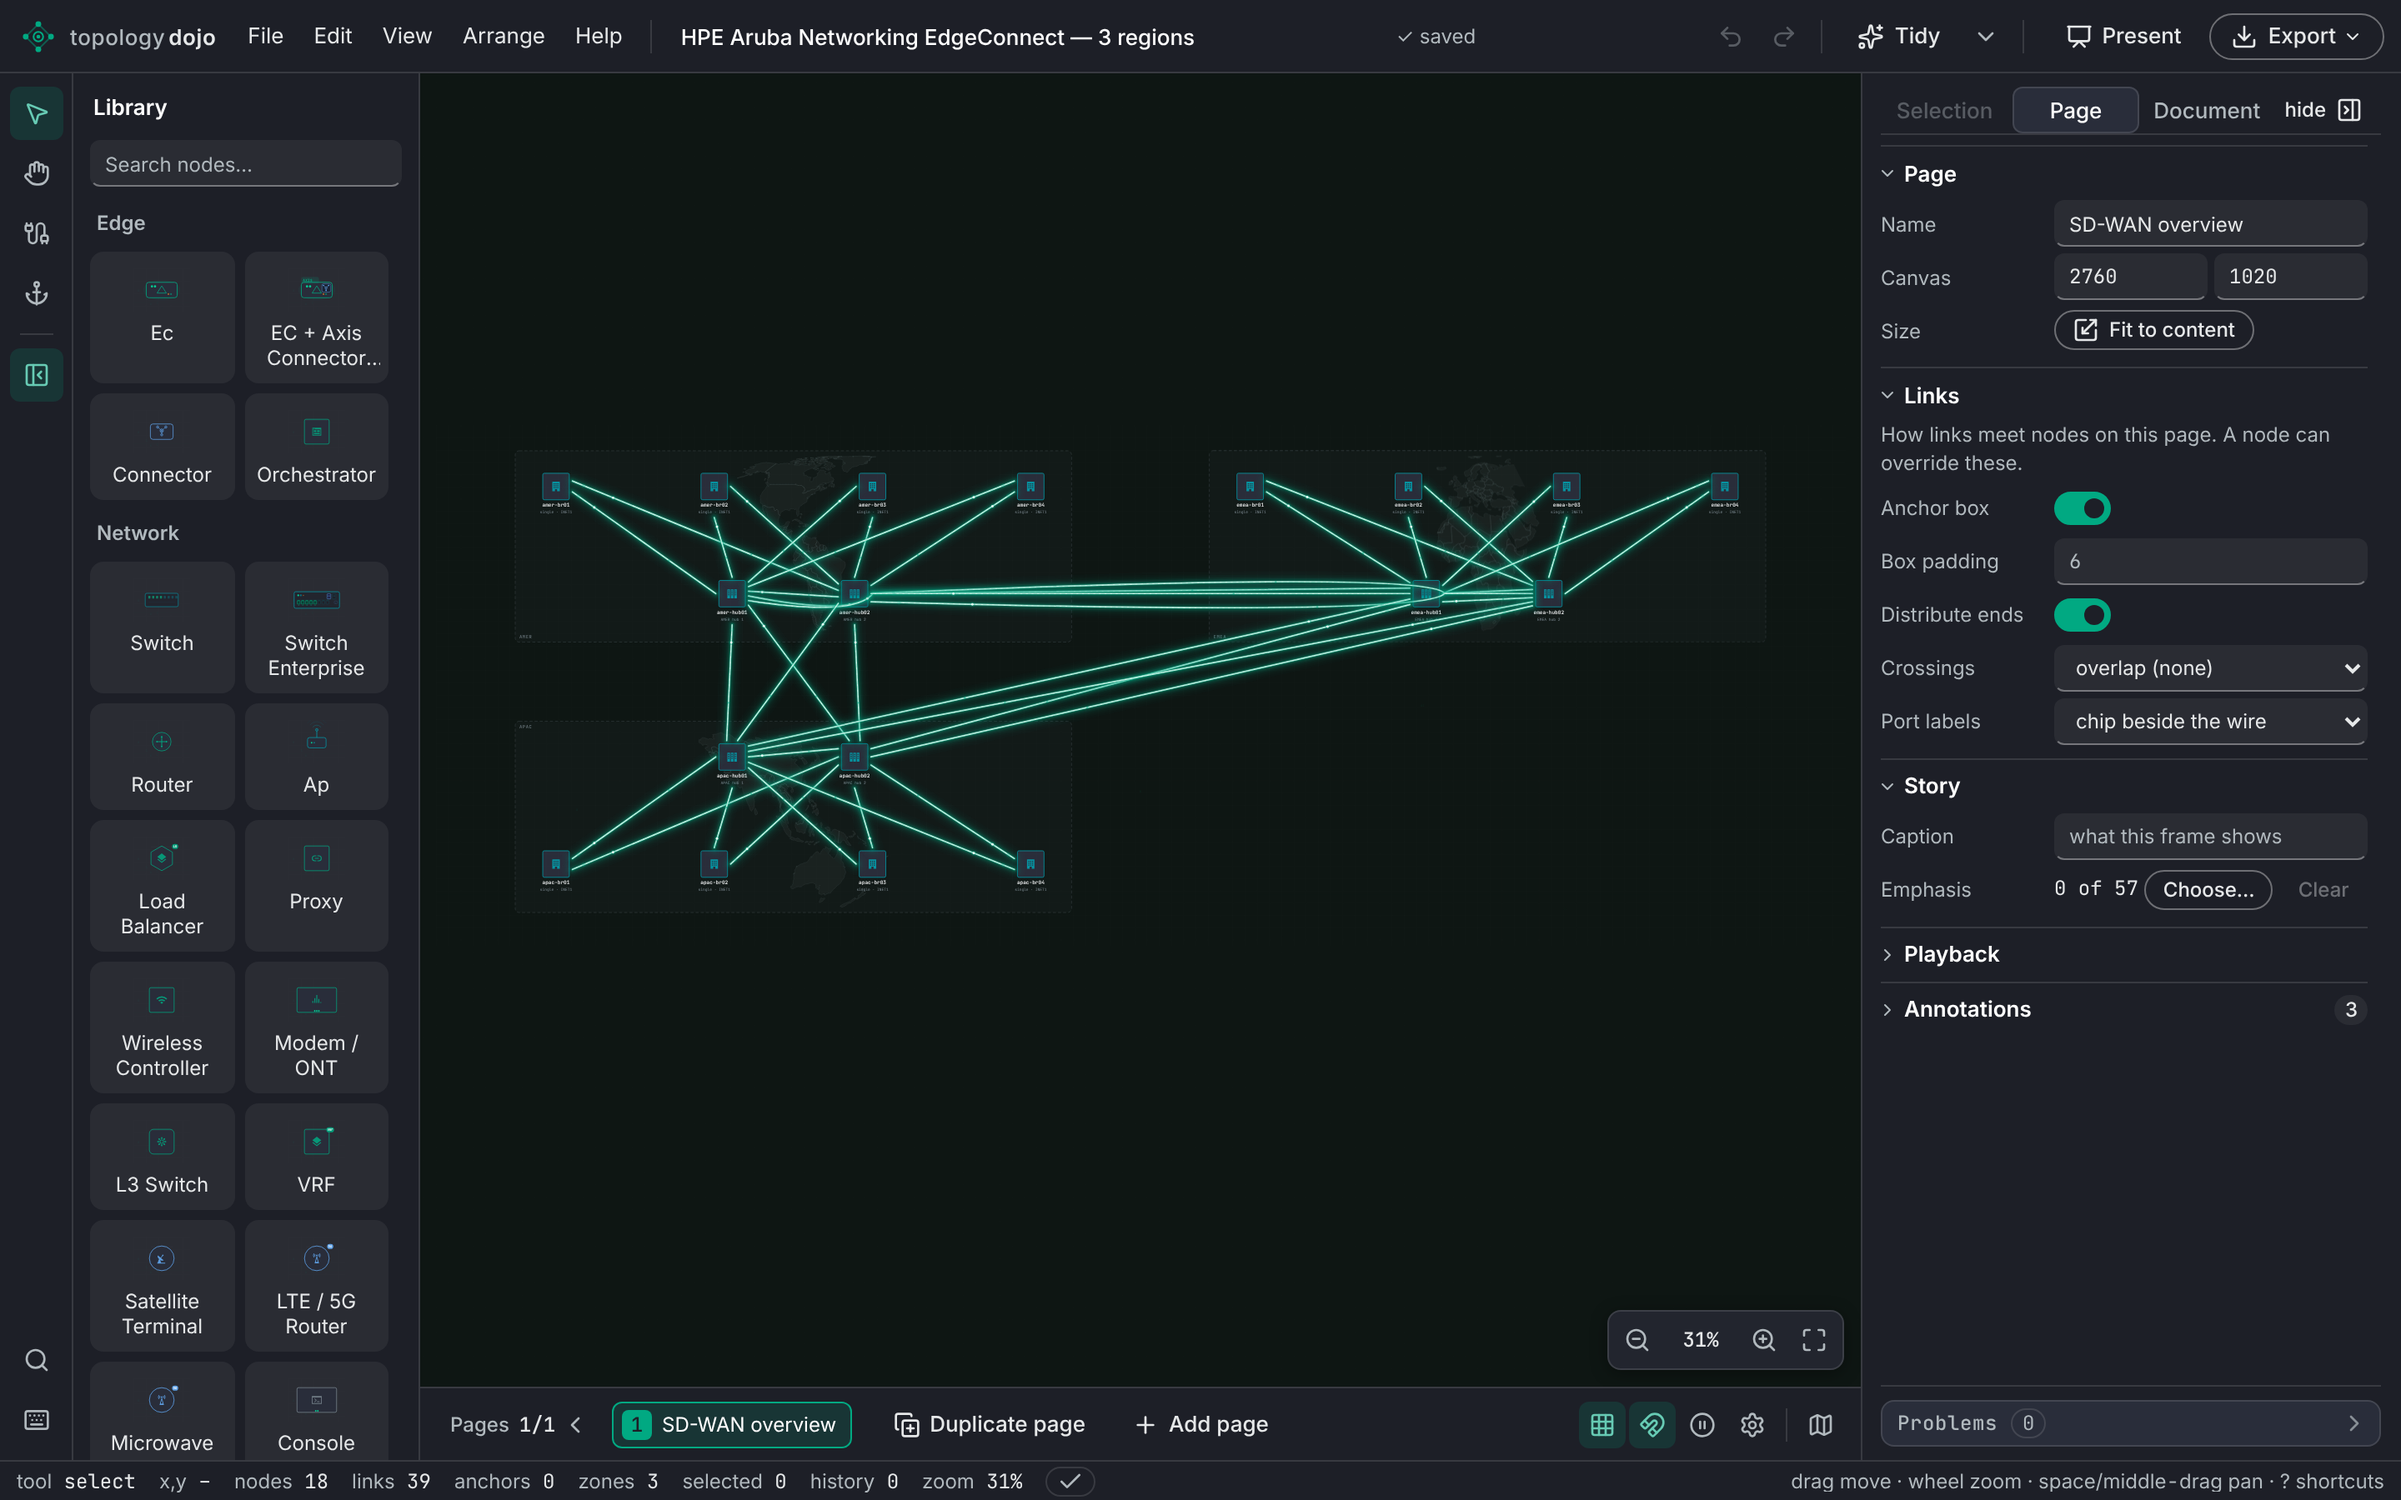
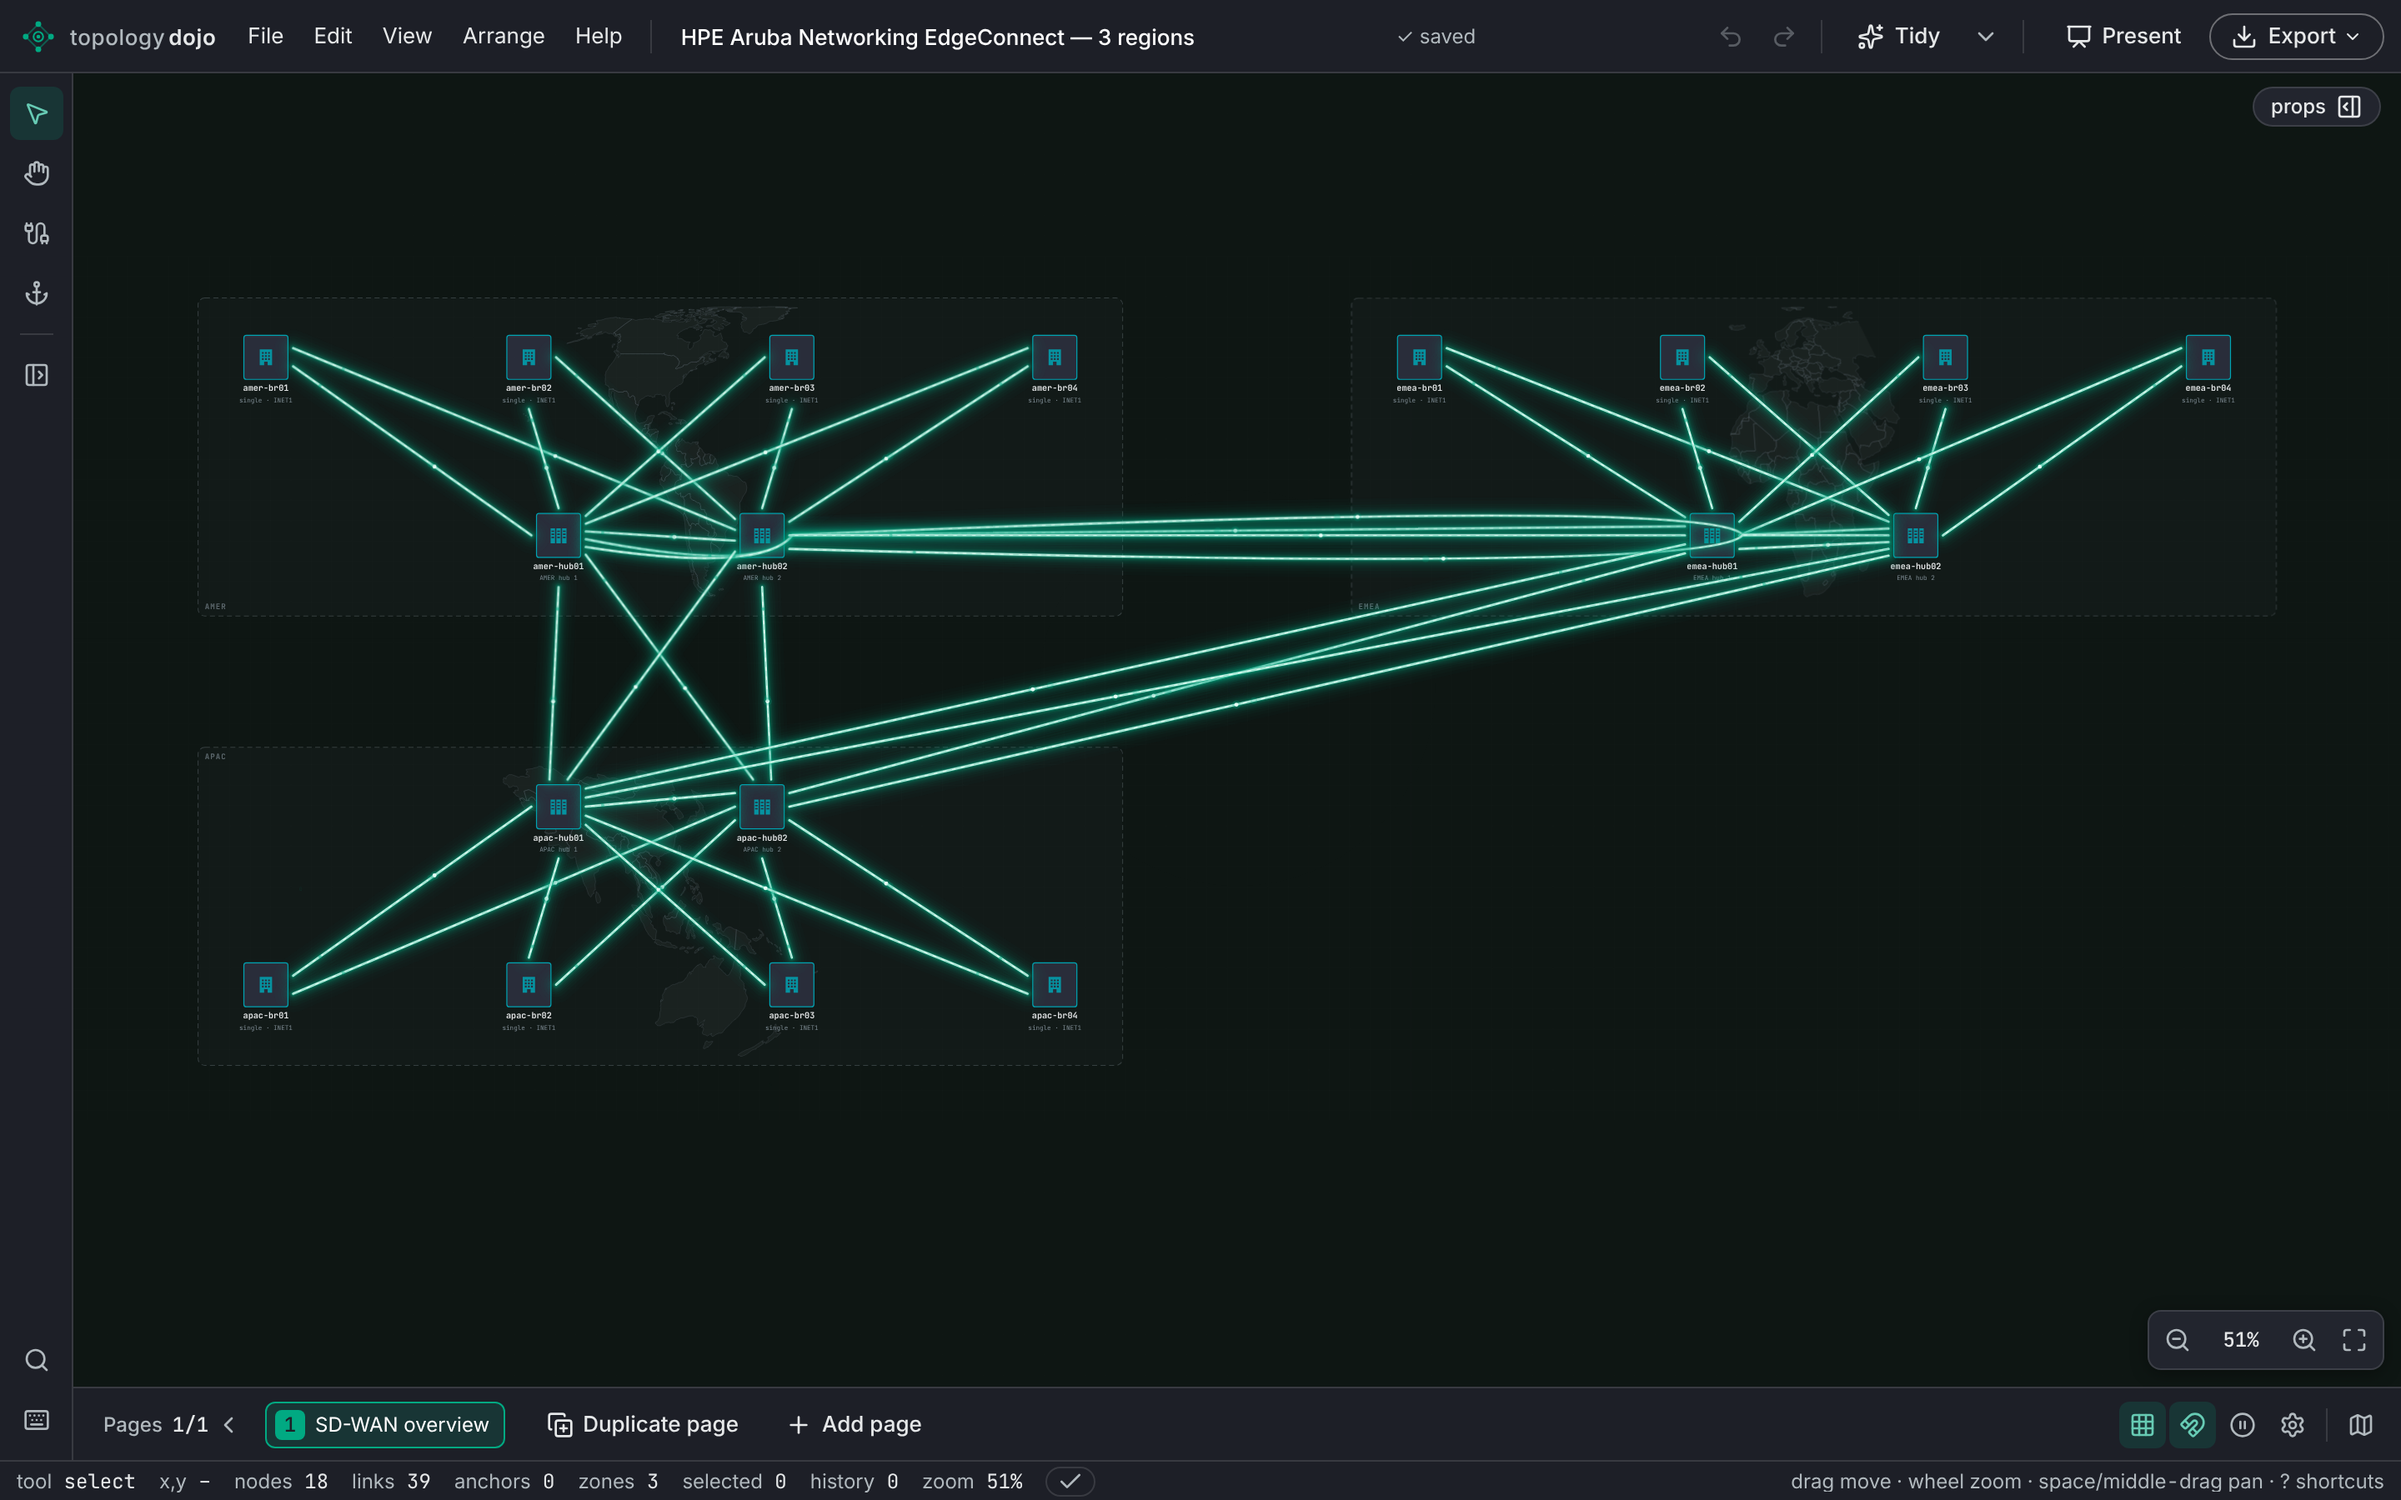
docs: what the release run for #327 did, the CI evidence, and a README image that shows the diagram
The proposal, the handoff and the roadmap record that the Release run for
d224979 failed in CI's browser job and deployed nothing, read from the run's
own job list. The QA plan records the CI results on the shell, the measured
cause of the timeouts and the passing runs on ee278eb.

The README's lead image was regenerated with the library and the properties
panel closed: with both open the fabric was drawn at 31% and could not be
read; it is at 51% now. The script and the alt text say so.

Claude-Session: https://claude.ai/code/session_011p1xTfiECfRXNFo4UFq8R1

diff --git a/docs/launch-readiness/QA_TEST_PLAN.md b/docs/launch-readiness/QA_TEST_PLAN.md
@@ -246,6 +246,21 @@ pages dock drawn over it, so each image is 704 x 608 at the test's window
 (they were 1018 x 646). The commit records that the images were regenerated
 from an ordinary checkout and each was looked at.
 
+2026-11-19, CI on the shell (not part of the run above). On `bccbe9a`, the
+head PR #327 merged, the pull request's browser job failed nine tests of 277
+(28.2 minutes): the pages bar's layout at 720 x 450 (an assertion, EDT-45's
+defect) and eight tests past the 30-second limit on all three attempts. The
+Release run for the merge, `d224979` (run 44554032473), failed three of them
+(274 passed, 19.8 minutes), and its `stage` and `production` jobs were
+skipped. The cause of the timeouts was measured: CI recorded a trace of every
+test, which doubles what a test costs (the same nine tests took 34 s without
+and 72 s with), and the helper that runs a command from the menu bar opened
+every menu and submenu until it found the item. On `ee278eb` (PR #328: the
+compact layout, a helper that goes straight to the item, and a trace only for
+a retried test) CI's `check`, `visio` and `e2e` jobs passed, and the whole
+browser suite run locally with CI's settings (`CI=1`) passed: 285 tests, none
+failed or flaky, 13.1 minutes, the longest test 23 s.
+
 2026-11-19, local run for §7.16–§7.18 (not part of the run above): on the code
 of `d24f6a4` (PR #328's branch: `d224979` plus the compact layout), in a Linux
 sandbox with a pre-provisioned headless Chromium, `npx playwright test` of

diff --git a/docs/proposals/0013-ui-overhaul.md b/docs/proposals/0013-ui-overhaul.md
@@ -13,9 +13,14 @@ zoom control, the selection bar's align, distribute, order and lock buttons,
 the command palette on Ctrl/Cmd+K, the context menu on the shared menu
 component, the properties panel's three tabs and regrouped sections, and the
 shared controls on the wizards, the workspace, preferences and admin panels
-and the node designer. PR #328 (not merged) adds the compact layout (below
+and the node designer. The Release run for `d224979` (run 44554032473) failed
+in CI's browser job, so its `stage` and `production` jobs were skipped: that
+run deployed nothing. PR #328 (not merged) adds the compact layout (below
 1,024 px the node library and the properties panel are drawers over the
-canvas, `src/ui/compact-layout.ts`) and brings the documentation up to date.
+canvas, `src/ui/compact-layout.ts`), brings the browser tests back inside
+CI's 30-second limit (`menuCommand` in `e2e/helpers.ts` goes straight to a
+menu item, and CI records a trace only when it retries a failed test) and
+brings the documentation up to date.
 What is not done: the rest of P3 (the Share dialog, the presentation controls,
 the shortcut sheet's close button and the path bar still use the old `.tbtn`
 button class, and seven font-size rules under 12 px remain in four

diff --git a/docs/HANDOFF.md b/docs/HANDOFF.md
@@ -101,7 +101,12 @@ superseded: it is draft PR #327._
 _2026-11-19 (later still the same day; `main` at `d224979`, and the branch of
 PR #328, not merged, at `d24f6a4`): PR #327, "UI overhaul: command registry,
 shell, properties panel (proposal 0013: rest of P0, P1, P2, part of P3)",
-merged into `main` as `d224979`. That supersedes the note above, dated for the
+merged into `main` as `d224979`. The Release run for that merge (run 44554032473) failed in CI's browser job (three tests in that run: two past the
+30-second limit and the pages bar's layout at 720 x 450), so its `stage` and
+`production` jobs were skipped and it deployed nothing. PR #328 fixes both
+causes: the compact layout, and the browser tests' time (the menu helper goes
+straight to an item; CI records a trace only when it retries a failed test,
+`playwright.config.ts`); CI passed on its commit `ee278eb`. That supersedes the note above, dated for the
 branch of draft PR #327 at `1ebbccb`: #327 is not a draft and is merged, `main`
 has the registry, and P1 and P2 have changed surfaces. It also supersedes the
 sentence in the `e9d0d7f` note that the menu component, the command palette,

diff --git a/README.md b/README.md
@@ -3,7 +3,7 @@
 Network topology diagrams that a person can draw and an AI agent can generate,
 in the same format, with the same renderer.
 
-![The editor in the dark theme showing a generated three-region SD-WAN fabric (hubs and branches per region over continent map backdrops), with the top bar and menus, the left rail and node library, the pages bar and the properties panel around the canvas](docs/images/editor-sdwan.png)
+![The editor in the dark theme showing a generated three-region SD-WAN fabric (hubs and branches per region over continent map backdrops), with the top bar and its menus, the left rail, the pages bar and the status bar around the canvas; the node library and the properties panel are closed](docs/images/editor-sdwan.png)
 
 There are two ways to author a diagram, and they produce the same document:
 

diff --git a/docs/ROADMAP.md b/docs/ROADMAP.md
@@ -741,7 +741,9 @@ Plan and per-phase status: [`futures/hw-catalog.md`](futures/hw-catalog.md).
 ### UI overhaul: command registry, shell and properties panel (proposal 0013, rest of P0, P1, P2 and part of P3, 2026-11-19)
 
 PR #327, "UI overhaul: command registry, shell, properties panel", merged
-2026-11-19 as `d224979`. Merged:
+2026-11-19 as `d224979`. Its Release run (44554032473) failed in CI's browser
+job, so the `stage` and `production` jobs were skipped and it deployed nothing;
+PR #328 (not merged) carries the fixes. Merged:
 
 - **The command registry** (`src/ui/commands.ts`): every command with its key
   bindings as data, bound once in `src/main.ts`; the window key handler, the
